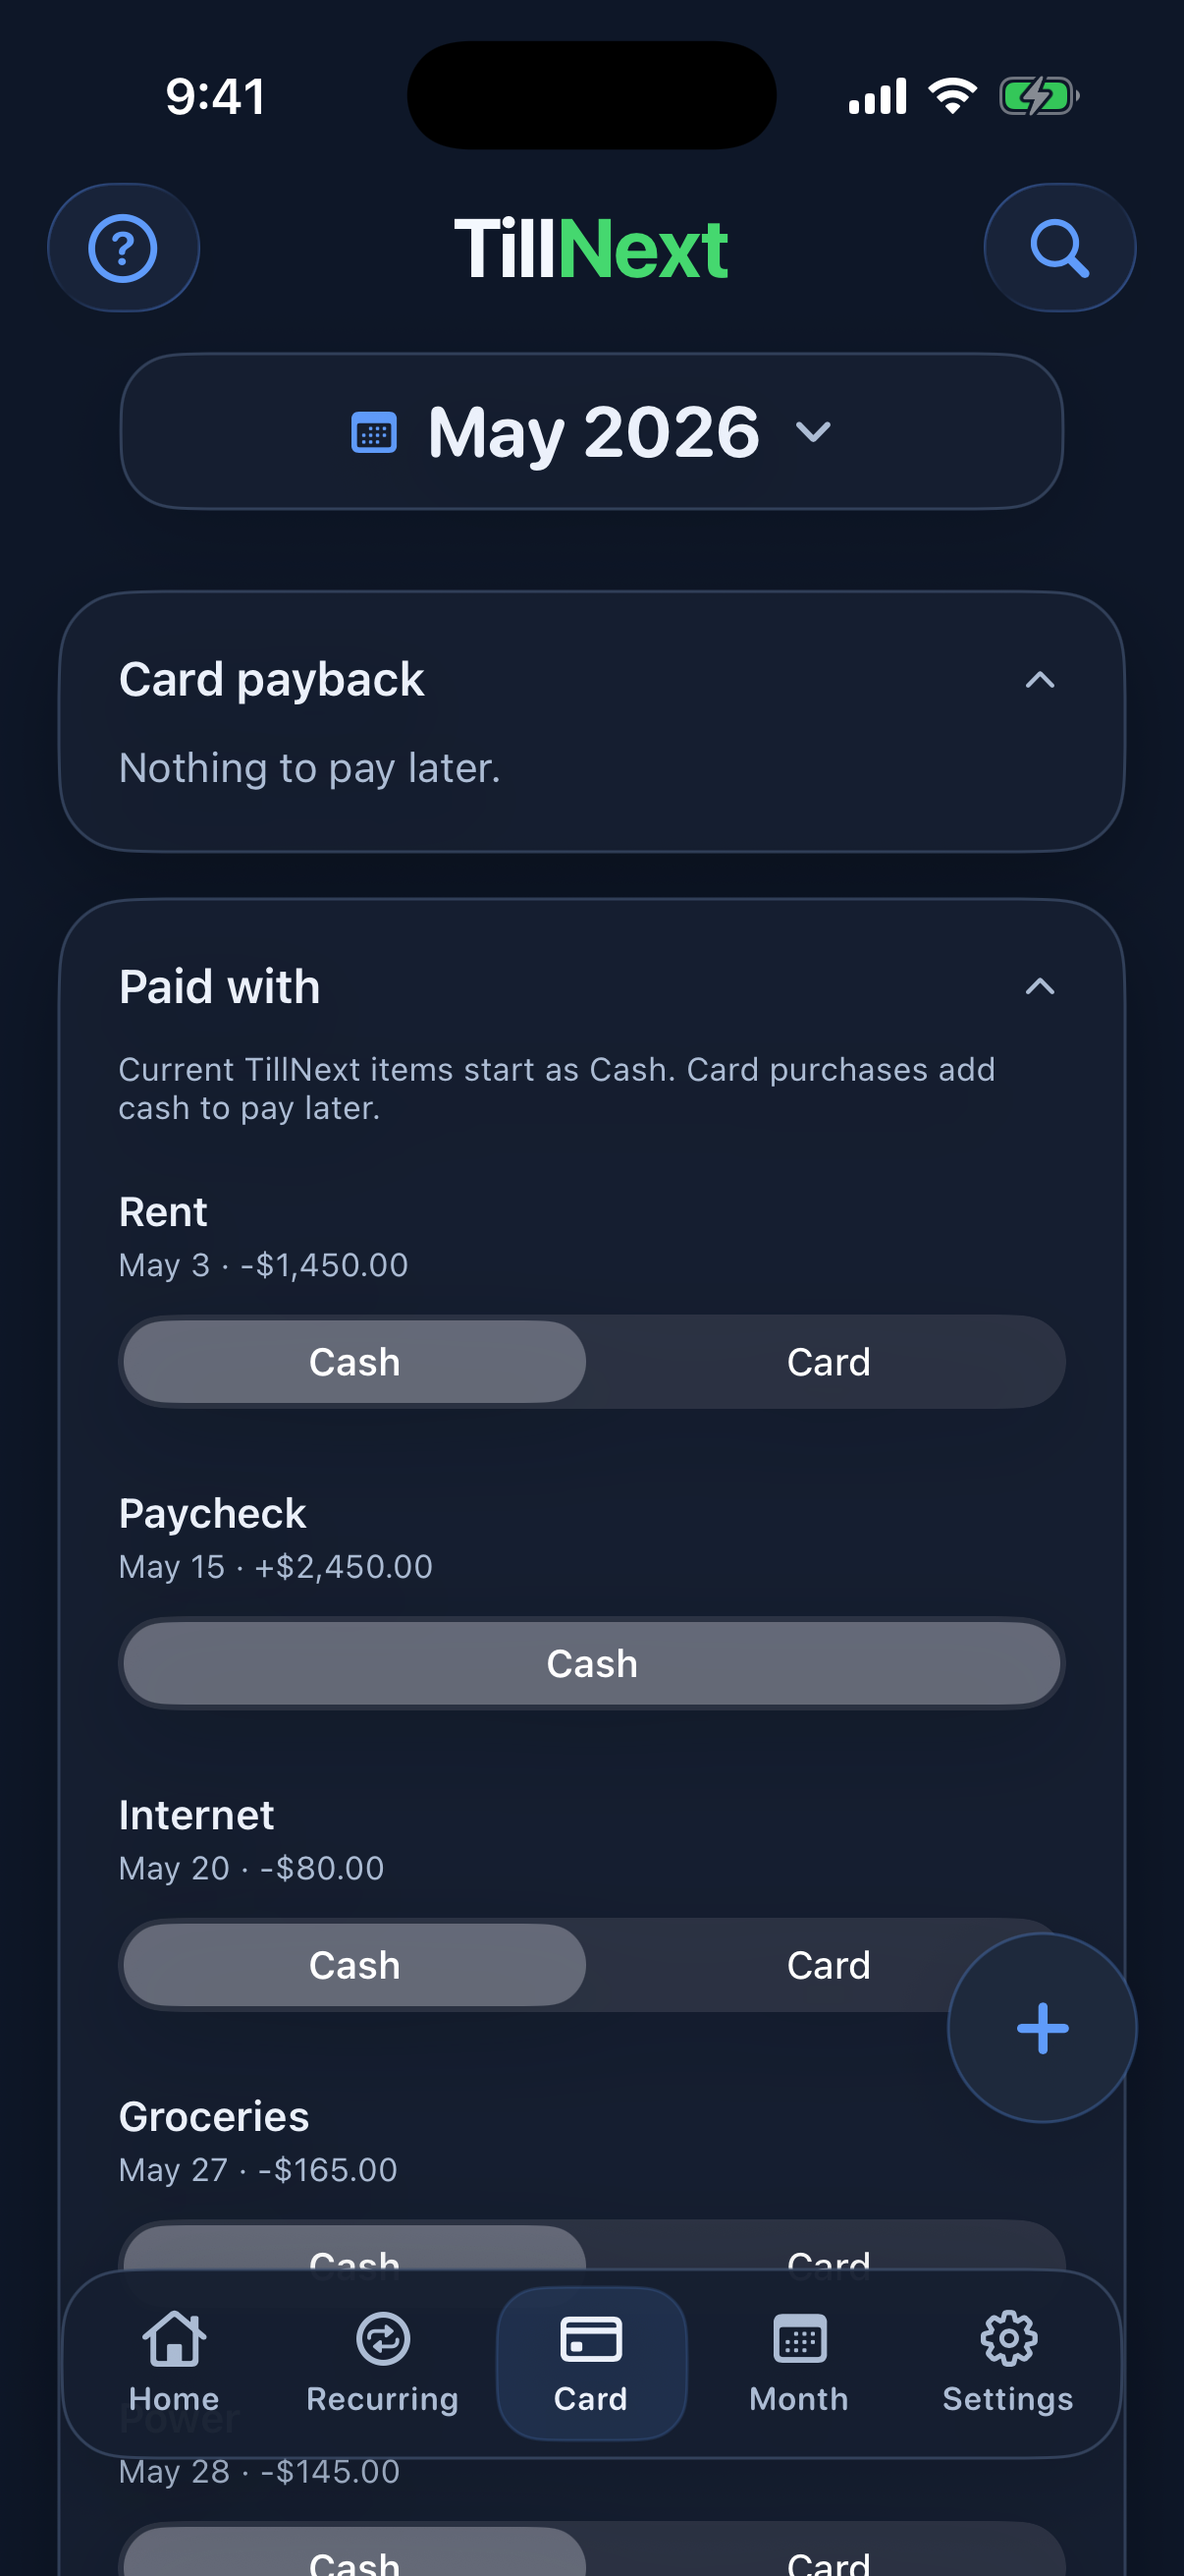
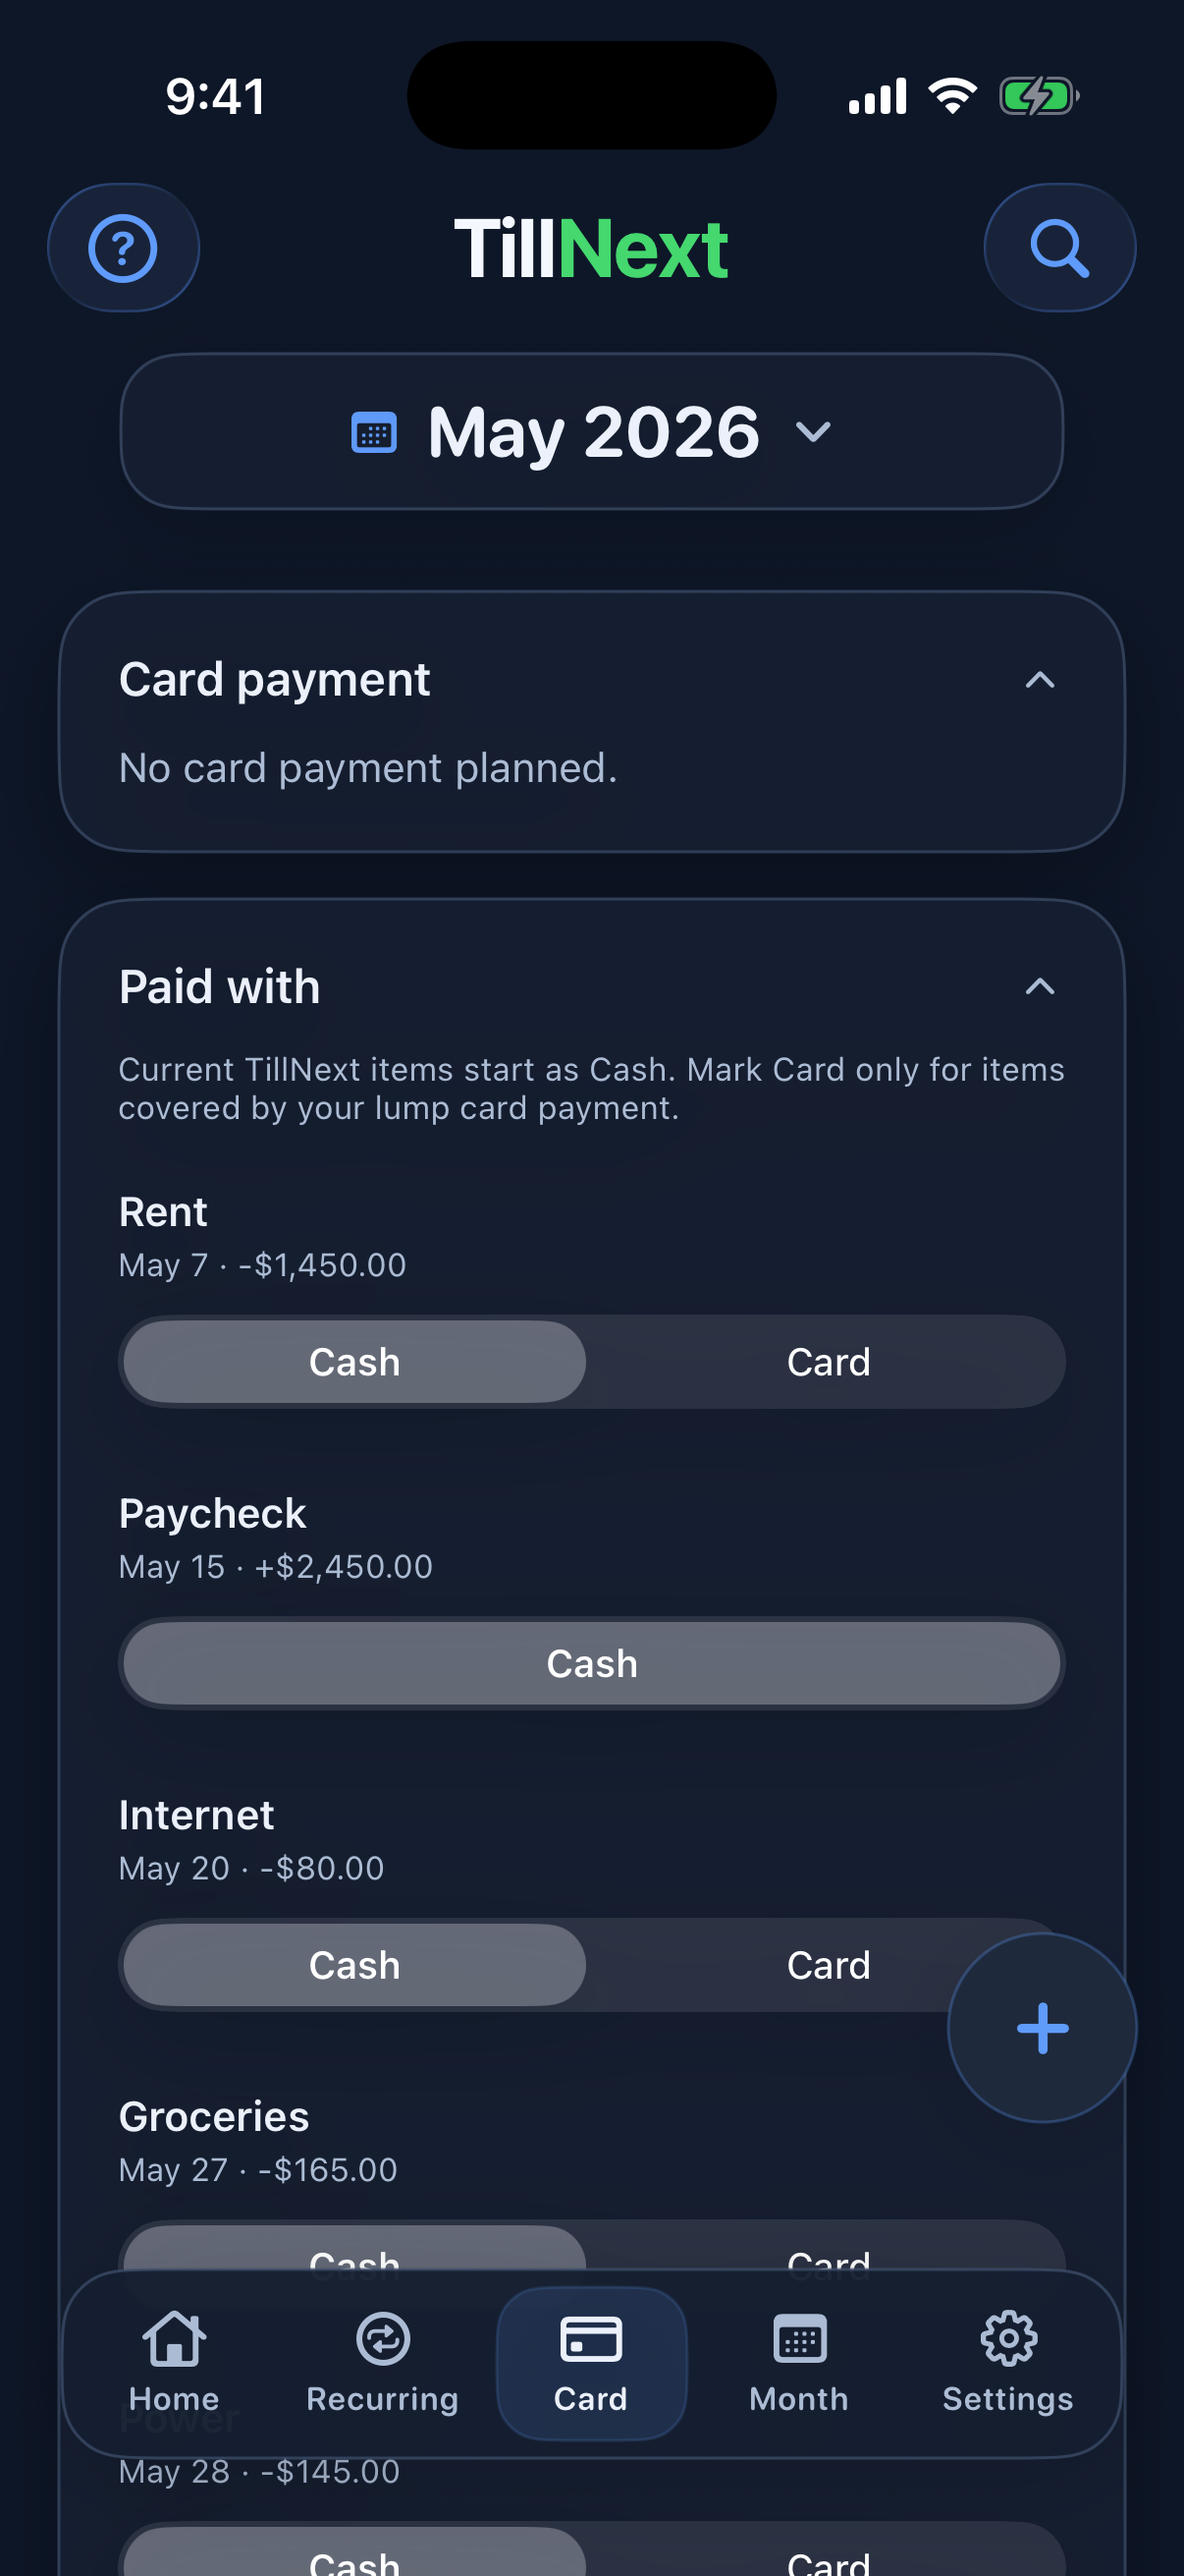
Update changelog for monthly card payments

Changed region(s): [[0.1534, 0.2471, 0.5216, 0.3089], [0.5829, 0.4016, 0.859, 0.4325], [0.3068, 0.4634, 0.3375, 0.4943]]

diff --git a/changelog/index.html b/changelog/index.html
@@ -5,7 +5,7 @@
     <meta name="viewport" content="width=device-width, initial-scale=1">
     <title>TillNext: Paycheck Planner Changelog</title>
     <meta name="description" content="Public changelog for TillNext: Paycheck Planner.">
-    <link rel="stylesheet" href="../styles.css?v=20260506-card-planning">
+    <link rel="stylesheet" href="../styles.css?v=20260507-card-repeat">
   </head>
   <body>
     <main>
@@ -20,7 +20,13 @@
       <p>Public notes for meaningful TillNext changes. This page focuses on user-facing updates, privacy posture, and support information.</p>
 
       <h2>Version 1.1.1, Pre-Launch</h2>
-      <p><strong>Updated:</strong> May 6, 2026</p>
+      <p><strong>Updated:</strong> May 7, 2026</p>
+      <h3>May 7, 2026</h3>
+      <ul>
+        <li>Prepared build 276 for pre-launch testing.</li>
+        <li>Added a Repeat each month option for card payments so regular card payoff amounts can show up month after month on Home and in card planning.</li>
+      </ul>
+
       <h3>May 6, 2026</h3>
       <ul>
         <li>Prepared build 275 for pre-launch testing.</li>
@@ -115,7 +121,7 @@
       <p>For technical bug reports, use <a href="https://github.com/xwhiptail/tillnext-site/issues">GitHub Issues</a>.</p>
 
       <footer>
-        <span>Last updated: May 6, 2026</span>
+        <span>Last updated: May 7, 2026</span>
       </footer>
     </main>
   </body>
